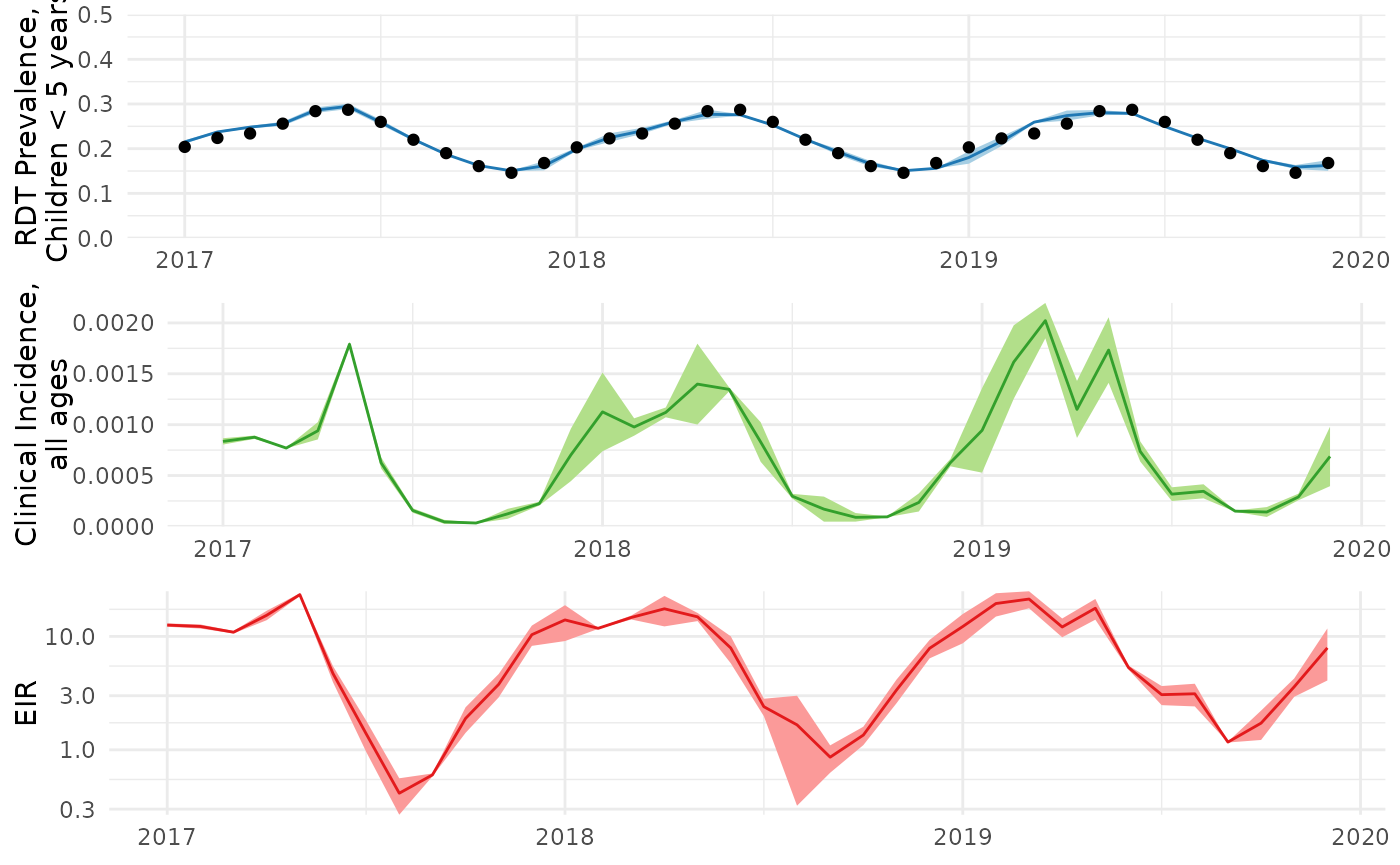
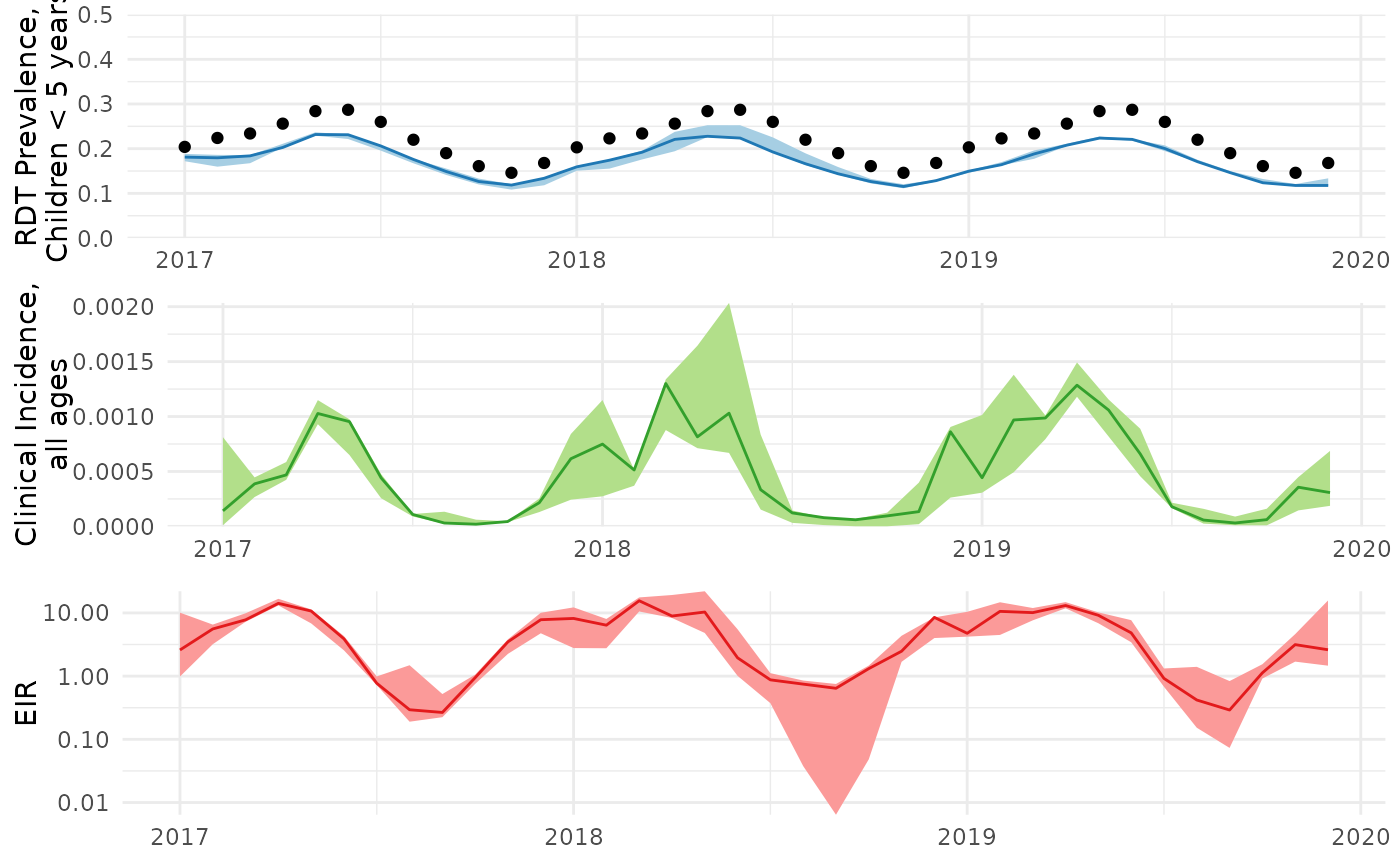
Deploying to gh-pages from @ jt-hicks/mamasante@5f8d45080bd027ea1aba36c0b91e5eb1244f3a8b 🚀

diff --git a/articles/mamasante_intro.html b/articles/mamasante_intro.html
@@ -227,27 +227,39 @@ parameters that will be fit.</li>
 <span>                       target_prev <span class="op">=</span> <span class="fl">0.4</span>,</span>
 <span>                       n_steps <span class="op">=</span> <span class="fl">10</span><span class="op">)</span></span>
 <span><span class="co">#&gt; <span style="color: #00BBBB;">──</span> <span style="color: #00BBBB;">R CMD INSTALL</span> <span style="color: #00BBBB;">───────────────────────────────────────────────────────────────</span></span></span>
-<span><span class="co">#&gt; * installing *source* package ‘odin.model.stripped.seasonal9f89af4b’ ...</span></span>
+<span><span class="co">#&gt; * installing *source* package ‘odin.model.stripped.seasonalc18373d9’ ...</span></span>
 <span><span class="co">#&gt; ** using staged installation</span></span>
 <span><span class="co">#&gt; ** libs</span></span>
 <span><span class="co">#&gt; using C compiler: ‘gcc (Ubuntu 13.3.0-6ubuntu2~24.04) 13.3.0’</span></span>
 <span><span class="co">#&gt; gcc -I"/opt/R/4.4.2/lib/R/include" -DNDEBUG   -I/usr/local/include    -fpic  -g -O2  -UNDEBUG -Wall -pedantic -g -O0 -fdiagnostics-color=always -c odin.c -o odin.o</span></span>
 <span><span class="co">#&gt; <span style="font-weight: bold;">odin.c:</span> In function ‘<span style="font-weight: bold;">odin_model_stripped_seasonal_initial_conditions</span>’:</span></span>
-<span><span class="co">#&gt; <span style="font-weight: bold;">odin.c:2286:10:</span> <span style="color: #BB00BB; font-weight: bold;">warning: </span>unused variable ‘<span style="font-weight: bold;">t</span>’ [<span style="color: #BB00BB; font-weight: bold;">-Wunused-variable</span>]</span></span>
-<span><span class="co">#&gt;  2286 |   double <span style="color: #BB00BB; font-weight: bold;">t</span> = scalar_real(t_ptr, "t");</span></span>
+<span><span class="co">#&gt; <span style="font-weight: bold;">odin.c:2307:10:</span> <span style="color: #BB00BB; font-weight: bold;">warning: </span>unused variable ‘<span style="font-weight: bold;">t</span>’ [<span style="color: #BB00BB; font-weight: bold;">-Wunused-variable</span>]</span></span>
+<span><span class="co">#&gt;  2307 |   double <span style="color: #BB00BB; font-weight: bold;">t</span> = scalar_real(t_ptr, "t");</span></span>
 <span><span class="co">#&gt;       |          <span style="color: #BB00BB; font-weight: bold;">^</span></span></span>
 <span><span class="co">#&gt; gcc -I"/opt/R/4.4.2/lib/R/include" -DNDEBUG   -I/usr/local/include    -fpic  -g -O2  -UNDEBUG -Wall -pedantic -g -O0 -fdiagnostics-color=always -c registration.c -o registration.o</span></span>
-<span><span class="co">#&gt; gcc -shared -L/opt/R/4.4.2/lib/R/lib -L/usr/local/lib -o odin.model.stripped.seasonal9f89af4b.so odin.o registration.o -L/opt/R/4.4.2/lib/R/lib -lR</span></span>
-<span><span class="co">#&gt; installing to /tmp/RtmpYuczoQ/devtools_install_1ff5b98a1da/00LOCK-file1ff524cb74aa/00new/odin.model.stripped.seasonal9f89af4b/libs</span></span>
+<span><span class="co">#&gt; gcc -shared -L/opt/R/4.4.2/lib/R/lib -L/usr/local/lib -o odin.model.stripped.seasonalc18373d9.so odin.o registration.o -L/opt/R/4.4.2/lib/R/lib -lR</span></span>
+<span><span class="co">#&gt; installing to /tmp/RtmpZauBoa/devtools_install_1d2a299ad5ed/00LOCK-file1d2a15211f6/00new/odin.model.stripped.seasonalc18373d9/libs</span></span>
 <span><span class="co">#&gt; ** checking absolute paths in shared objects and dynamic libraries</span></span>
-<span><span class="co">#&gt; * DONE (odin.model.stripped.seasonal9f89af4b)</span></span>
-<span><span class="co">#&gt; Unused equation: mu0</span></span>
-<span><span class="co">#&gt;  mu0 &lt;- user() # baseline mosquito death rate # (line 323)</span></span>
+<span><span class="co">#&gt; * DONE (odin.model.stripped.seasonalc18373d9)</span></span>
+<span><span class="co">#&gt; Unused equation: age_flex_length</span></span>
+<span><span class="co">#&gt;  age_flex_length &lt;- user(integer=TRUE) # (line 485)</span></span>
 <span><span class="co">#&gt; Optimizing initial EIR based on target prevalence.</span></span>
 <span><span class="co">#&gt; Initial EIR set to 29.3.</span></span>
 <span><span class="co">#&gt; Running chain 1 / 1</span></span>
 <span><span class="co">#&gt; Finished 10 steps in 49 secs</span></span>
-<span><span class="co">#&gt; Time difference of 53.67744 secs</span></span></code></pre></div>
+<span><span class="co">#&gt; Time difference of 53.68905 secs</span></span>
+<span><span class="va">result</span> <span class="op">&lt;-</span> <span class="fu">mamasante</span><span class="fu">::</span><span class="fu"><a href="../reference/run_pmcmc.html">run_pmcmc</a></span><span class="op">(</span>data_raw<span class="op">=</span><span class="va">tanga_data_slim</span>,</span>
+<span>                       n_particles<span class="op">=</span><span class="fl">100</span>,</span>
+<span>                       target_prev <span class="op">=</span> <span class="fl">0.4</span>,</span>
+<span>                       n_steps <span class="op">=</span> <span class="fl">10</span>,</span>
+<span>                       comparison <span class="op">=</span> <span class="st">'2to10'</span><span class="op">)</span></span>
+<span><span class="co">#&gt; Unused equation: age_flex_length</span></span>
+<span><span class="co">#&gt;  age_flex_length &lt;- user(integer=TRUE) # (line 485)</span></span>
+<span><span class="co">#&gt; Optimizing initial EIR based on target prevalence.</span></span>
+<span><span class="co">#&gt; Initial EIR set to 29.3.</span></span>
+<span><span class="co">#&gt; Running chain 1 / 1</span></span>
+<span><span class="co">#&gt; Finished 10 steps in 54 secs</span></span>
+<span><span class="co">#&gt; Time difference of 58.88892 secs</span></span></code></pre></div>
 </div>
 <div class="section level2">
 <h2 id="visualising-output">Visualising output<a class="anchor" aria-label="anchor" href="#visualising-output"></a>

diff --git a/reference/compare_flex.html b/reference/compare_flex.html
@@ -1,0 +1,90 @@
+<!DOCTYPE html>
+<!-- Generated by pkgdown: do not edit by hand --><html lang="en"><head><meta http-equiv="Content-Type" content="text/html; charset=UTF-8"><meta charset="utf-8"><meta http-equiv="X-UA-Compatible" content="IE=edge"><meta name="viewport" content="width=device-width, initial-scale=1, shrink-to-fit=no"><title>Compare function to calculate likelihood when fitting to a flexible age group — compare_flex • mamasante</title><script src="../deps/jquery-3.6.0/jquery-3.6.0.min.js"></script><meta name="viewport" content="width=device-width, initial-scale=1, shrink-to-fit=no"><link href="../deps/bootstrap-5.3.1/bootstrap.min.css" rel="stylesheet"><script src="../deps/bootstrap-5.3.1/bootstrap.bundle.min.js"></script><link href="../deps/font-awesome-6.5.2/css/all.min.css" rel="stylesheet"><link href="../deps/font-awesome-6.5.2/css/v4-shims.min.css" rel="stylesheet"><script src="../deps/headroom-0.11.0/headroom.min.js"></script><script src="../deps/headroom-0.11.0/jQuery.headroom.min.js"></script><script src="../deps/bootstrap-toc-1.0.1/bootstrap-toc.min.js"></script><script src="../deps/clipboard.js-2.0.11/clipboard.min.js"></script><script src="../deps/search-1.0.0/autocomplete.jquery.min.js"></script><script src="../deps/search-1.0.0/fuse.min.js"></script><script src="../deps/search-1.0.0/mark.min.js"></script><!-- pkgdown --><script src="../pkgdown.js"></script><meta property="og:title" content="Compare function to calculate likelihood when fitting to a flexible age group — compare_flex"><meta name="description" content="compare_flex Compare function that compares observed data with model estimate
+to calculate likelihood for the particle filter. For fitting to a general population
+of a user-specified age group"><meta property="og:description" content="compare_flex Compare function that compares observed data with model estimate
+to calculate likelihood for the particle filter. For fitting to a general population
+of a user-specified age group"></head><body>
+    <a href="#main" class="visually-hidden-focusable">Skip to contents</a>
+
+
+    <nav class="navbar navbar-expand-lg fixed-top bg-light" data-bs-theme="light" aria-label="Site navigation"><div class="container">
+
+    <a class="navbar-brand me-2" href="../index.html">mamasante</a>
+
+    <small class="nav-text text-muted me-auto" data-bs-toggle="tooltip" data-bs-placement="bottom" title="">0.0.0.9000</small>
+
+
+    <button class="navbar-toggler" type="button" data-bs-toggle="collapse" data-bs-target="#navbar" aria-controls="navbar" aria-expanded="false" aria-label="Toggle navigation">
+      <span class="navbar-toggler-icon"></span>
+    </button>
+
+    <div id="navbar" class="collapse navbar-collapse ms-3">
+      <ul class="navbar-nav me-auto"><li class="active nav-item"><a class="nav-link" href="../reference/index.html">Reference</a></li>
+<li class="nav-item dropdown">
+  <button class="nav-link dropdown-toggle" type="button" id="dropdown-articles" data-bs-toggle="dropdown" aria-expanded="false" aria-haspopup="true">Articles</button>
+  <ul class="dropdown-menu" aria-labelledby="dropdown-articles"><li><a class="dropdown-item" href="../articles/mamasante_intro.html">Using MAMASANTE to Reconstruct Transmission Patterns: A Vignette</a></li>
+  </ul></li>
+      </ul><ul class="navbar-nav"><li class="nav-item"><form class="form-inline" role="search">
+ <input class="form-control" type="search" name="search-input" id="search-input" autocomplete="off" aria-label="Search site" placeholder="Search for" data-search-index="../search.json"></form></li>
+<li class="nav-item"><a class="external-link nav-link" href="https://github.com/jt-hicks/mamasante/" aria-label="GitHub"><span class="fa fab fa-github fa-lg"></span></a></li>
+      </ul></div>
+
+
+  </div>
+</nav><div class="container template-reference-topic">
+<div class="row">
+  <main id="main" class="col-md-9"><div class="page-header">
+
+      <h1>Compare function to calculate likelihood when fitting to a flexible age group</h1>
+      <small class="dont-index">Source: <a href="https://github.com/jt-hicks/mamasante/blob/main/R/utils.R" class="external-link"><code>R/utils.R</code></a></small>
+      <div class="d-none name"><code>compare_flex.Rd</code></div>
+    </div>
+
+    <div class="ref-description section level2">
+    <p><code>compare_flex</code> Compare function that compares observed data with model estimate
+to calculate likelihood for the particle filter. For fitting to a general population
+of a user-specified age group</p>
+    </div>
+
+    <div class="section level2">
+    <h2 id="ref-usage">Usage<a class="anchor" aria-label="anchor" href="#ref-usage"></a></h2>
+    <div class="sourceCode"><pre class="sourceCode r"><code><span><span class="fu">compare_flex</span><span class="op">(</span><span class="va">state</span>, <span class="va">observed</span>, pars <span class="op">=</span> <span class="cn">NULL</span><span class="op">)</span></span></code></pre></div>
+    </div>
+
+    <div class="section level2">
+    <h2 id="arguments">Arguments<a class="anchor" aria-label="anchor" href="#arguments"></a></h2>
+
+
+<dl><dt id="arg-state">state<a class="anchor" aria-label="anchor" href="#arg-state"></a></dt>
+<dd><p>Model output. Default = NULL</p></dd>
+
+
+<dt id="arg-observed">observed<a class="anchor" aria-label="anchor" href="#arg-observed"></a></dt>
+<dd><p>Oberved data. Default = NULL</p></dd>
+
+
+<dt id="arg-pars">pars<a class="anchor" aria-label="anchor" href="#arg-pars"></a></dt>
+<dd><p>Parameters, optional.</p></dd>
+
+</dl></div>
+
+  </main><aside class="col-md-3"><nav id="toc" aria-label="Table of contents"><h2>On this page</h2>
+    </nav></aside></div>
+
+
+    <footer><div class="pkgdown-footer-left">
+  <p>Developed by Joseph Hicks.</p>
+</div>
+
+<div class="pkgdown-footer-right">
+  <p>Site built with <a href="https://pkgdown.r-lib.org/" class="external-link">pkgdown</a> 2.1.1.</p>
+</div>
+
+    </footer></div>
+
+
+
+
+
+  </body></html>
+

diff --git a/reference/model_param_list_create.html b/reference/model_param_list_create.html
@@ -112,6 +112,7 @@ within <code>equilibrium_init_create</code></p>
 <span>  admin_unit <span class="op">=</span> <span class="cn">NULL</span>,</span>
 <span>  comparison <span class="op">=</span> <span class="cn">NULL</span>,</span>
 <span>  avg_prev <span class="op">=</span> <span class="fl">0.5</span>,</span>
+<span>  target_prev <span class="op">=</span> <span class="cn">NULL</span>,</span>
 <span>  <span class="va">...</span></span>
 <span><span class="op">)</span></span></code></pre></div>
     </div>
@@ -382,6 +383,10 @@ within <code>equilibrium_init_create</code></p>
 
 <dt id="arg-avg-prev">avg_prev<a class="anchor" aria-label="anchor" href="#arg-avg-prev"></a></dt>
 <dd><p>Average prevalence during first year of data collection</p></dd>
+
+
+<dt id="arg-target-prev">target_prev<a class="anchor" aria-label="anchor" href="#arg-target-prev"></a></dt>
+<dd><p>Prevalence used to estimate initial EIR</p></dd>
 
 
 <dt id="arg--">...<a class="anchor" aria-label="anchor" href="#arg--"></a></dt>

diff --git a/reference/run_pmcmc.html b/reference/run_pmcmc.html
@@ -176,7 +176,8 @@ If state_check = FALSE, no values are printed</p></dd>
 <dd><p>The comparison function to be used. Either 'u5' which
 equates the observed prevalence to prevalence under 5 years old in
 the model or 'pgmg' which calculates prevalence in primigravid and
-multigravid pregnant women for comparison with observed ANC data. c('u5','pg','sg','mg','pgmg','pgsg','ancall')</p></dd>
+multigravid pregnant women for comparison with observed ANC data. c('u5','pg','sg','mg','pgmg','pgsg','ancall')
+If in a format XtoY, where X and Y are two numbers, will compare to general population between those two ages.</p></dd>
 
 
 <dt id="arg-initial">initial<a class="anchor" aria-label="anchor" href="#arg-initial"></a></dt>

diff --git a/reference/index.html b/reference/index.html
@@ -65,6 +65,12 @@
         <dd>Compare function to calculate likelihood</dd>
       </dl><dl><dt>
 
+          <code><a href="compare_flex.html">compare_flex()</a></code>
+
+        </dt>
+        <dd>Compare function to calculate likelihood when fitting to a flexible age group</dd>
+      </dl><dl><dt>
+
           <code><a href="compare_mg.html">compare_mg()</a></code>
 
         </dt>
